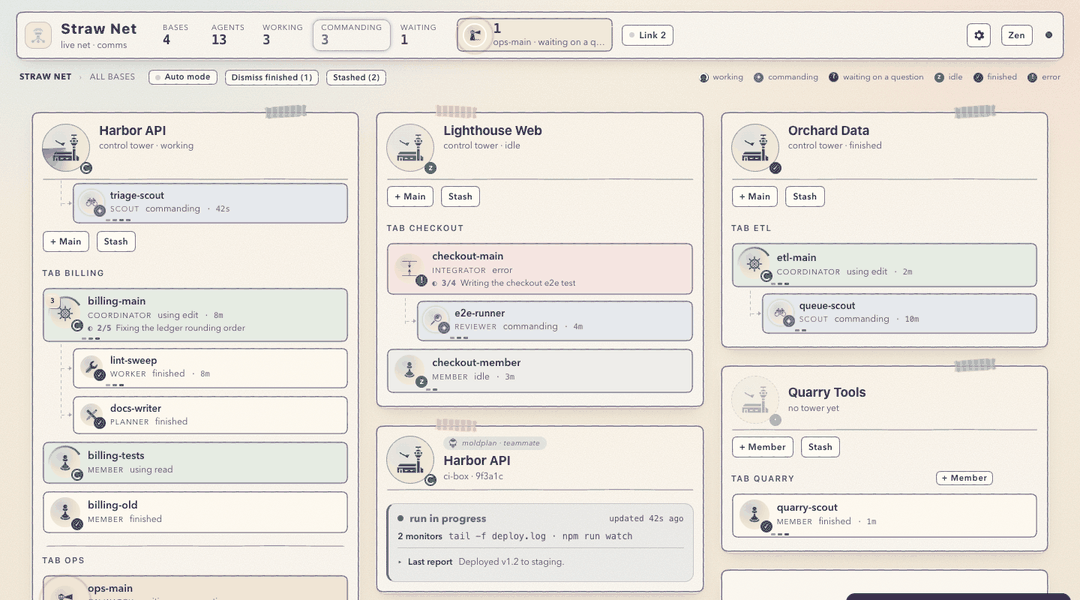
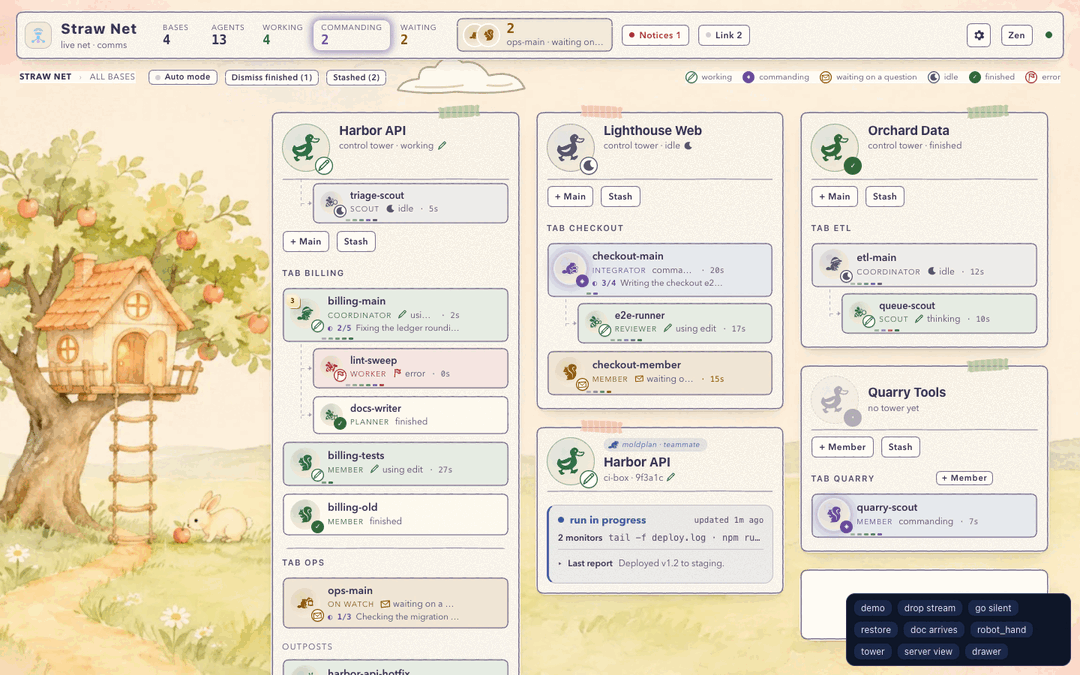
docs(gui): show the shipped Storybook theme and Zen menu

diff --git a/docs/how-it-works.zh-TW.md b/docs/how-it-works.zh-TW.md
@@ -1,4 +1,4 @@
-# pi-straw-boss 的運作方式 <!-- source: docs/how-it-works.md @ 4775b47d -->
+# pi-straw-boss 的運作方式 <!-- source: docs/how-it-works.md @ 1dd055b4 -->
 
 [README](../README.zh-TW.md) 背後的完整行為。使用說明在各篇指南；這份參考則逐節寫出程式實際怎麼做，所以請在下面找到需要的那一節，其餘可以略過。
 
@@ -2381,7 +2381,7 @@ server 會把它寫進它提供的每個頁面，作為 `<meta name="sb-view" co
 
 時段看裝置的本地時間，不看 server 的，也沒有設定（`gui/phase.ts`；示範頁用 `&phase=day` 或 `&phase=night` 指定）。`boot.js` 在設定檢視時一併在 `<html>` 設定 `data-phase`，並在第一個影格之前塗上該時段的 `theme-color`（白天 `#fbf5e9`，夜晚 `#111a35`），所以夜裡開啟的頁面不會先畫成白天。頁面上，主題的時鐘排一個到下一個 06:00 或 18:00 的計時器，並在頁面再次顯示時（`visibilitychange`、`pageshow`）以及收到快照時（最多每分鐘一次）再看一次，因為睡著的手機會跳過計時器，而時區改變會移動分界。到了分界，顏色立即切換，不需重新載入，分頁的 theme-color 與等待徽章會重畫（白天是奶油色上的蜂蜜色，夜晚是夜空上的燈金色）；焦點、草稿、捲動位置與開著的對話框都維持原狀。
 
-每張卡片、按鈕、分隔線與文字框都保留手繪的線：一條細而略不平整的外框，由 `border-image` 中的一張小型靜態 SVG 畫出（每個時段一張），疊在細緻的紙紋上。一條紙膠帶把每個基地、主塔台橫幅與提問對話框貼在頁面上，提問卡是一張有橫線的紙。通訊中老闆送出的訊息是天藍色紙條，智慧體的回覆是蜜桃色紙條，送出是深綠色的印章。這些都不會動，也沒有任何濾鏡做動畫。它是第一個淺色主題，所以標準混入白色的覆蓋層與光暈都換成紙上墨色的色調；終端機在兩個時段都保留深色的底。強制色彩下既不畫紙膠帶也不畫手繪線。它的角色圖示、插圖、狀態圖形與音效在到來之前都沿用標準的（docs/specs/2026-11-26-storybook-theme/spec.md）。
+每張卡片、按鈕、分隔線與文字框都保留手繪的線：一條細而略不平整的外框，由 `border-image` 中的一張小型靜態 SVG 畫出（每個時段一張），疊在細緻的紙紋上。一條紙膠帶把每個基地、主塔台橫幅與提問對話框貼在頁面上，提問卡是一張有橫線的紙。通訊中老闆送出的訊息是天藍色紙條，智慧體的回覆是蜜桃色紙條，送出是深綠色的印章。這些都不會動，也沒有任何濾鏡做動畫。它是第一個淺色主題，所以標準混入白色的覆蓋層與光暈都換成紙上墨色的色調；終端機在兩個時段都保留深色的底。強制色彩下既不畫紙膠帶也不畫手繪線。動物代表角色：老闆是兔子，主塔台是貓頭鷹。單位工作時，鉛筆寫上兩筆；等待時，信封翹起一角；出錯時，小旗搖一下；閒置時則是一彎月牙。白天有浮雲、蝴蝶和落葉，夜裡有星光、螢火蟲和樹屋的窗燈。進入靜止狀態、減少動態或使用強制色彩時，圖形都靜止不動。開啟音效，收到問題時會聽見一聲拇指琴。背景音有獨立開關，只在背景圖可見時播放：白天是鳥鳴，夜裡是蟋蟀聲。
 
 </details>
 
@@ -2531,7 +2531,7 @@ stateDiagram-v2
 <details>
 <summary>細節</summary>
 
-被派出的子智慧體的種類以 `Unit.duty` 傳到頁面，讀自它 session 檔前 64 KB 中第一個 `straw-boss { agent }` 條目（在它的第一個 turn 之前，由啟動腳本的 `PI_SUBAGENT_AGENT` 代替）。被續跑的子智慧體會從 pi-herdr-agents 拿到新的 id 和一支不帶角色的 `<name>-resume-<ts>.sh` 腳本，它靠帶有其 `PI_SUBAGENT_ID` 的那支腳本找到，再經由那支腳本的 session 檔與執行它的 pane，所以它保有自己的名稱、運作中的標記和種類。鴉閣對這些種類畫標準檢視的符號，如同對火車，極客也畫標準的。
+被派出的子智慧體的種類以 `Unit.duty` 傳到頁面，讀自它 session 檔前 64 KB 中第一個 `straw-boss { agent }` 條目（在它的第一個 turn 之前，由啟動腳本的 `PI_SUBAGENT_AGENT` 代替）。被續跑的子智慧體會從 pi-herdr-agents 拿到新的 id 和一支不帶角色的 `<name>-resume-<ts>.sh` 腳本，它靠帶有其 `PI_SUBAGENT_ID` 的那支腳本找到，再經由那支腳本的 session 檔與執行它的 pane，所以它保有自己的名稱、運作中的標記和種類。鴉閣與繪本各有七種單位專用的圖示；火車仍用火車頭。極客沿用標準檢視的圖示。
 
 </details>
 

diff --git a/docs/how-it-works.md b/docs/how-it-works.md
@@ -2381,7 +2381,7 @@ Storybook (繪本) is a cute, soothing picture-book skin of Standard, with the s
 
 The phase is the device's local hour, never the server's, and has no setting (`gui/phase.ts`; the demo forces one with `&phase=day` or `&phase=night`). `boot.js` sets `data-phase` on `<html>` with the view and paints the phase's `theme-color` (`#fbf5e9` by day, `#111a35` at night) before the first frame, so a page opened at night is never painted as day first. On the page the theme's clock arms one timer to the next 06:00 or 18:00 and looks again when the page is shown again (`visibilitychange`, `pageshow`) and at a snapshot at most once a minute, since a phone that slept skips timers and a time-zone change moves the boundary. At a boundary the colours switch at once, with no reload, and the tab's theme-color and waiting badge are drawn again (honey on cream by day, lamp gold on the sky at night); focus, drafts, the scroll position, and open dialogs stay as they were.
 
-Every card, button, divider, and text box keeps a hand-drawn line: a thin, slightly uneven outline drawn by a small static SVG in `border-image` (one per phase), over a fine paper grain. A strip of washi tape holds each base, the head band, and the question dialog to the page, and the question card is a ruled page. What the boss sent is a sky-blue note in the chat, an agent's reply a peach one, and Send a dark green stamp. Nothing of it moves, and no filter is animated. It is the first light theme, so Standard's overlays that mix white and its glows are replaced by tints of the ink on paper; the terminal keeps its dark well in both phases. Forced colours draw neither tape nor hand-drawn line. Its role icons, pictures, status figures, and sounds are Standard's until they arrive (docs/specs/2026-11-26-storybook-theme/spec.md).
+Every card, button, divider, and text box keeps a hand-drawn line: a thin, slightly uneven outline drawn by a small static SVG in `border-image` (one per phase), over a fine paper grain. A strip of washi tape holds each base, the head band, and the question dialog to the page, and the question card is a ruled page. What the boss sent is a sky-blue note in the chat, an agent's reply a peach one, and Send a dark green stamp. Nothing of it moves, and no filter is animated. It is the first light theme, so Standard's overlays that mix white and its glows are replaced by tints of the ink on paper; the terminal keeps its dark well in both phases. Forced colours draw neither tape nor hand-drawn line. Animals mark the roles: the boss is a bunny, the head tower an owl. A pencil writes while a unit works, an envelope lifts a corner when it waits, a flag sways on error, and a crescent marks idle. Clouds, butterflies and a falling leaf cross the daytime map; at night stars twinkle, fireflies drift and the treehouse windows glow. Calm, reduced motion and forced colours keep the figures still. With Sound effects on, a question plays a kalimba note. Background sound has its own switch: birds by day, crickets by night, only while the backdrop is visible.
 
 </details>
 
@@ -2531,7 +2531,7 @@ a coordinator a ship's wheel, an integrator two arrows joining, a standing main 
 <details>
 <summary>Details</summary>
 
-A launched subagent's kind reaches the page as `Unit.duty`, read from the first `straw-boss { agent }` entry in the first 64 KB of its session file (the launch script's `PI_SUBAGENT_AGENT` stands in before its first turn). A resumed child, which pi-herdr-agents gives a new id and a `<name>-resume-<ts>.sh` script with no role, is found by the script that carries its `PI_SUBAGENT_ID`, then by that script's session file and the pane that runs it, so it keeps its name, its live mark, and its kind. Raven Keep draws Standard's symbols for the kinds, as it does for the train, and Geek draws Standard's too.
+A launched subagent's kind reaches the page as `Unit.duty`, read from the first `straw-boss { agent }` entry in the first 64 KB of its session file (the launch script's `PI_SUBAGENT_AGENT` stands in before its first turn). A resumed child, which pi-herdr-agents gives a new id and a `<name>-resume-<ts>.sh` script with no role, is found by the script that carries its `PI_SUBAGENT_ID`, then by that script's session file and the pane that runs it, so it keeps its name, its live mark, and its kind. Raven Keep and Storybook draw their own symbols for the seven unit kinds; trains keep the locomotive. Geek uses Standard's symbols.
 
 </details>
 

diff --git a/README.md b/README.md
@@ -12,6 +12,8 @@ English | [繁體中文](https://github.com/wayne930242/pi-straw-boss/blob/main/
 
 <p align="center"><img src="docs/gui-board-capacity.png" width="49%" alt="The situation board in the Standard view: the device budget as 1-point slots, each deployed unit a chip over its points, the free slots, the barracks with the ready work, and each commander's units and ready count"> <img src="docs/gui-board-raven.png" width="49%" alt="The same board in Raven Keep: candle graves lit by the deployed bats, empty graves in mist, the keep's gate with the waiting bats, a pause as a shut coffin and a stale main as circling crows"></p>
 
+<p align="center"><img src="docs/gui-storybook-day.png" width="80%" alt="The Storybook map by day, with animal icons on paper cards"></p>
+
 <p align="center"><img src="docs/gui-comms.png" width="49%" alt="A unit's comms: its chat as a live log, the messages queued for its next turn, its todo list, its background monitors, and its dossier"> <img src="docs/gui-zen-item.png" width="49%" alt="The Zen view with one item: a robot_hand question on an ink-dark page, its choices as lines of text"></p>
 
 ## Why
@@ -22,7 +24,7 @@ pi-straw-boss lets them find each other and coordinate, without a scheduler or a
 - **Everyone joins.** Each pi in Herdr joins its tab's net at start. An agent whose work grows (several steps, dispatching workers, more than one app) promotes itself to the tab's **main agent**; you, the boss, can take over with `/boss`.
 - **A tower per workspace**, an agent in a tab of its own, opens when agents start to collide: a member dispatches a subagent, or an agent promotes itself. It coordinates the mains and the other towers, and opens a tab with a new main for work no session owns. You don't need to talk to it.
 - **A head tower of your own** takes your instructions in one long conversation and hands each to the workspace that owns it.
-- **The browser view**, `/boss gui`: every workspace, agent, and subagent live, and the questions they wait on, answered in place from a desktop or a paired phone. Its Zen mode, one press away in the header, shows one thing at a time.
+- **The browser view**, `/boss gui`: every workspace, agent, and subagent live, and the questions they wait on, answered in place from a desktop or a paired phone. Choose Storybook for a notebook that changes from day to night, or press Zen in the header to see one thing at a time.
 - **Merge trains**: a project can batch its reviewed branches, so the heavy gates (lint, build, full suites) run once per train instead of once per branch.
 - **Straw Link** connects the towers of teammates' computers, and an unattended build box can take work from them.
 - **Auto mode**: tell the head tower you are going to sleep, and no agent waits on you until you are back. Agents keep working, and what needed you goes back to the agent that asked, to ask you again when you are back.
@@ -72,4 +74,4 @@ The [documentation site](https://wayne930242.github.io/pi-straw-boss/docs/) is i
 
 ## License
 
-MIT. The browser view's icons come from [game-icons.net](https://game-icons.net) (Lorc and Delapouite, [CC BY 3.0](https://creativecommons.org/licenses/by/3.0/)); see [gui/ICONS.md](gui/ICONS.md). The Raven view's three sounds are not MIT: they are used under Casper's sound-effects licence; see [NOTICE.md](NOTICE.md).
+MIT. The browser view's icons come from [game-icons.net](https://game-icons.net) (Lorc and Delapouite, [CC BY 3.0](https://creativecommons.org/licenses/by/3.0/)); see [gui/ICONS.md](gui/ICONS.md). The recorded sounds in Standard, Raven Keep and Storybook are not MIT: they are used under Casper's sound-effects licence; see [NOTICE.md](NOTICE.md).

diff --git a/README.zh-TW.md b/README.zh-TW.md
@@ -12,6 +12,8 @@
 
 <p align="center"><img src="docs/gui-board-capacity.png" width="49%" alt="標準檢視的戰況板：裝置預算畫成每格 1 點的補給格，每個已部署的單位橫跨它的點數，旁邊是空格、放待命工作的兵營，以及每位指揮官的單位與可接件數"> <img src="docs/gui-board-raven.png" width="49%" alt="鴉閣檢視的同一張板：已部署的蝙蝠點亮燭火墓位，空墓泛霧，閣門前有待命的蝙蝠，額度停機是合上的棺木，停滯的主智慧體上方群鴉盤旋"></p>
 
+<p align="center"><img src="docs/gui-storybook-day.png" width="80%" alt="白天的繪本地圖，每張紙卡上都有代表角色的動物圖示"></p>
+
 <p align="center"><img src="docs/gui-comms.png" width="49%" alt="單位的通訊畫面：即時的對話紀錄、排隊等下一輪的訊息、待辦清單、背景 Monitor，以及單位檔案"> <img src="docs/gui-zen-item.png" width="49%" alt="禪檢視裡的一件待辦：墨色畫面上是一個 robot_hand 問題，選項是一行行的字"></p>
 
 ## 為什麼需要它
@@ -22,7 +24,7 @@ pi-straw-boss 讓它們能找到彼此、互相協調，不需要排程器，也
 - **每個人都會加入。** Herdr 裡的每個 pi 一啟動就加入所在分頁的網。工作變多（步驟變多、要派工作者、涉及不只一個 app）的智慧體會升任為分頁的**主智慧體**；你，也就是老闆，可以用 `/boss` 接手。
 - **每個工作區一座塔台**：它是一個在自己分頁裡的智慧體，在智慧體開始互相干擾時開起來（成員派出子智慧體，或有智慧體升任）。它協調各個主智慧體和其他塔台；沒有 session 負責的工作，它會開一個分頁、啟動新的主智慧體來處理。你不用跟它說話。
 - **你自己的主塔台**，和你保持一場長對話，把你交代的每件事轉給該處理的工作區。
-- **瀏覽器畫面** `/boss gui`：即時看到每個工作區、智慧體和子智慧體，它們在等你回答的問題，可以直接在桌面或已配對的手機上回答。頁首一按就進入的禪模式，一次只給你看一件事。
+- **瀏覽器畫面** `/boss gui`：即時看到每個工作區、智慧體和子智慧體，它們在等你回答的問題，可以直接在桌面或已配對的手機上回答。選「繪本」會看到隨日夜換色的手帳；按頁首的「禪」，就能一次只看一件事。
 - **合併火車**：專案可以把審查過的分支整批合併，重型檢查（lint、build、完整測試）每列火車只跑一次，不必每條分支各跑一次。
 - **Straw Link** 連起隊友電腦上的塔台，無人值守的建置機也能接隊友送來的工作。
 - **自動模式**：跟主塔台說你要去睡了，在你回來之前，沒有智慧體會等你。智慧體照常工作，需要你的事等你回來時退回給提出的智慧體，由它再問你一次。
@@ -68,4 +70,4 @@ pi install npm:pi-straw-boss
 
 ## 授權
 
-MIT。瀏覽器畫面的圖示來自 [game-icons.net](https://game-icons.net)（Lorc 與 Delapouite，[CC BY 3.0](https://creativecommons.org/licenses/by/3.0/)）；見 [gui/ICONS.md](gui/ICONS.md)。鴉閣畫面的三段音效不屬 MIT，依 Casper 音效庫的授權使用；見 [NOTICE.md](NOTICE.md)。
+MIT。瀏覽器畫面的圖示來自 [game-icons.net](https://game-icons.net)（Lorc 與 Delapouite，[CC BY 3.0](https://creativecommons.org/licenses/by/3.0/)）；見 [gui/ICONS.md](gui/ICONS.md)。標準、鴉閣與繪本使用的錄音不屬 MIT，依 Casper 音效庫的授權使用；見 [NOTICE.md](NOTICE.md)。

diff --git a/site/src/content/docs/guide/browser-view.md b/site/src/content/docs/guide/browser-view.md
@@ -87,7 +87,7 @@ Each device picks its view on the settings page: Auto, Standard, Geek, Raven Kee
 
 - **Standard** is the map above.
 - **Geek** is a terminal: black, monospace, high contrast, no motion, and each state also as a text tag such as `[WORK]`, `[WAIT?]`, or `[ERR!]`.
-- **Raven Keep** is a gothic skin of Standard: the same layout, its own icons, role names, and sounds. The kinds' icons are Standard's in it.
+- **Raven Keep** is a gothic skin of Standard: the same layout, its own icons, role names, and sounds. Each unit kind has its own Raven Keep icon.
 - **Storybook** is a cute, soothing picture-book skin of Standard with the same words (below).
 
 <p align="center"><img src="/pi-straw-boss/docs/img/gui-geek.png" width="70%" alt="The Geek view of the map: black, monospace, high contrast, with each unit's state as a tag"></p>
@@ -97,7 +97,7 @@ Each device picks its view on the settings page: Auto, Standard, Geek, Raven Kee
 Storybook (繪本) draws the net as a pressed-flower notebook: each card is a paper page held by washi tape, with a thin hand-drawn line and a fine paper grain, and the question card is a ruled page.
 It follows your device's clock. From 06:00 to 17:59 it is cream paper with deep plum ink; from 18:00 to 05:59 it is grey-violet pages on a night-blue sky.
 The page changes over at the boundary by itself, with no reload, and a page opened at night never flashes the day first.
-Every text stays at least 4.5 : 1 in both, and the terminal keeps its dark well.
+Look beside the animal icons to read a unit’s state: pencil for work, envelope for waiting, flag for an error, crescent for idle. The shapes stay readable with motion off. Butterflies cross the map by day; fireflies glow at night. Turn on Background sound to hear birds or crickets with the scenery. Sound effects is separate: turn it on for a kalimba note when a question needs you.
 
 <p align="center"><img src="/pi-straw-boss/docs/img/gui-storybook-day.png" width="49%" alt="The Storybook view by day: cream paper cards held by washi tape, hand-drawn outlines, plum text"> <img src="/pi-straw-boss/docs/img/gui-storybook-night.png" width="49%" alt="The Storybook view at night: grey-violet cards held by grey-green tape on a night-blue ground"></p>
 
@@ -143,7 +143,7 @@ See [Headless runs in Zen](/pi-straw-boss/docs/reference/how-it-works/browser-vi
 Sound effects follow the settings page's Sound effects switch (off by default): a singing bowl when an item takes the screen, a wooden fish when one is done.
 Put audio files in `~/.pi/agent/straw-boss-music/` and Zen shows a ♪ in the corner that plays them on a loop, while the Background sound switch is on.
 
-<p align="center"><img src="/pi-straw-boss/docs/img/gui-zen-menu.png" width="49%" alt="The Zen view's corner menu: language, view, sound and volume, and the way back to Standard"> <img src="/pi-straw-boss/docs/img/gui-zen-music.png" width="49%" alt="The Zen view with a music folder: the ♪ switch and the open track list"></p>
+<p align="center"><img src="/pi-straw-boss/docs/img/gui-zen-menu.png" width="49%" alt="The Zen view's corner menu: language, sound controls and Exit Zen"> <img src="/pi-straw-boss/docs/img/gui-zen-music.png" width="49%" alt="The Zen view with a music folder: the ♪ switch and the open track list"></p>
 
 The head tower lives under Zen's breathing circle; see [The head tower](/pi-straw-boss/docs/guide/head-tower/).
 

diff --git a/docs/specs/2026-11-26-storybook-theme/spec.md b/docs/specs/2026-11-26-storybook-theme/spec.md
@@ -1,4 +1,4 @@
-Status: approved by the boss 2026-11-26 (spec, animals O11, day 06:00–17:59)
+Status: implemented
 Base: `main` 8e3c816c (0.93.0)
 Related: [2026-11-07-raven-view/spec.md](../2026-11-07-raven-view/spec.md) (the theme mechanism and the precedent this follows), [2026-11-01-zen-view.md](../2026-11-01-zen-view.md) (Zen, Z-D16, Z-D20), [2026-11-09-sound-split.md](../2026-11-09-sound-split.md) (the two sound classes). Design notes: [design.md](design.md).
 
